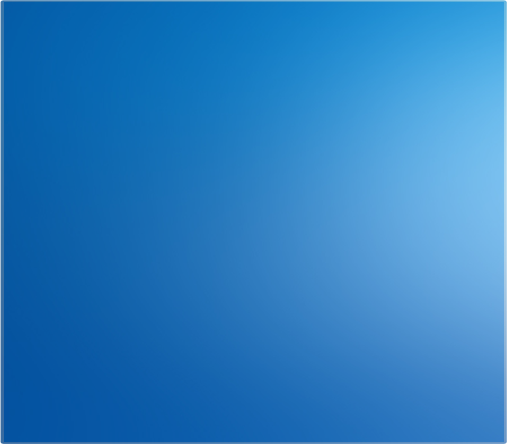
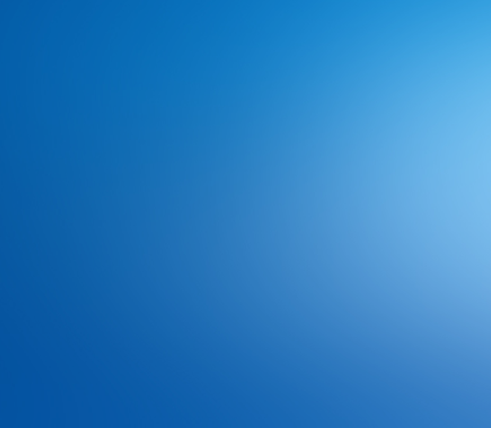
DJR:Added gradient background to list pane

Changed region(s): [[0.0, 0.0, 1.0, 1.0]]

diff --git a/index.ios.js b/index.ios.js
@@ -30,10 +30,11 @@ var StopWatch = React.createClass({
         </View>
       </View>
       <View style={[styles.footer, this.border('blue')]}>
-        <Text>
+        <Image source={require('./assets/gradient1.png')} style={styles.backgroundImage}>
+        <Text style={styles.listText}>
           I am a list of laps
         </Text>
-        <Image source={require('./assets/gradient1.png')} style={styles.backgroundImage} />
+      </Image>
       </View>
     </View>
   },
@@ -140,6 +141,9 @@ var styles = StyleSheet.create({
   backgroundImage: {
     flex: 1,
     resizeMode: 'cover', // or 'stretch'
+  },
+  listText: {
+    backgroundColor: 'rgba(0,0,0,0)'
   }
 })
 
